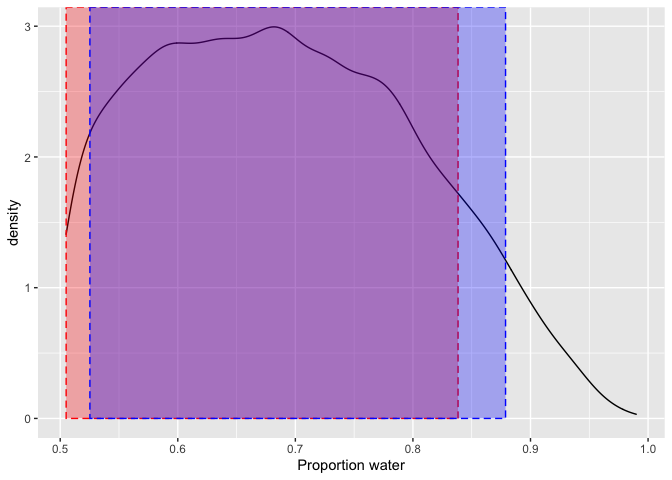
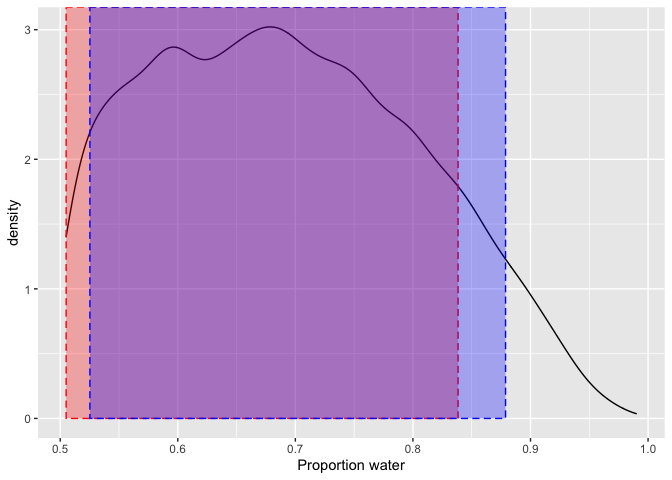
Q 4

diff --git a/homework/01-homework.md b/homework/01-homework.md
@@ -12,8 +12,6 @@ library(rethinking)
 ### **Question 1** Suppose the globe tossing data (Chapter 2) had turned out to be 4 water and 11 land. Construct the posterior distribution, using grid approximation. Use the same flat prior as in the book.
 
 ``` r
-p_grid <- seq( from=0 , to=1 , length.out=20 )
-
 # Define grid
 p_grid <- seq(0, 1, length.out = 100)
 
@@ -80,7 +78,7 @@ samples_2 <- sample(probs_df_2$prob,
 head(samples_2)
 ```
 
-    ## [1] 0.7373737 0.5858586 0.7777778 0.5757576 0.7878788 0.6666667
+    ## [1] 0.8181818 0.7777778 0.5858586 0.9191919 0.5151515 0.7171717
 
 ``` r
 # Calculate percentile intervals
@@ -106,11 +104,80 @@ interval in blue. The percentil interval is wider and potentially misses
 values at the lower end because the distribution is skewed
 
 ``` r
+# Plot a density distribution of the sample and the intervals
 ggplot(data.frame(values = samples_2), aes(x = values)) +
   geom_density() +
-  annotate('rect', xmin = samples_2_HPDI[1], xmax = samples_2_HPDI[2], ymin = 0, ymax = Inf, alpha = 0.3, colour = 'red', fill = 'red', linetype = 'dashed') +
-  annotate('rect', xmin = samples_2_PI[1], xmax = samples_2_PI[2], ymin = 0, ymax = Inf, alpha = 0.3, colour = 'blue', fill = 'blue', linetype = 'dashed') +
+  annotate('rect', 
+           xmin = samples_2_HPDI[1], xmax = samples_2_HPDI[2], 
+           ymin = 0, ymax = Inf, alpha = 0.3, 
+           colour = 'red', fill = 'red', linetype = 'dashed') +
+  annotate('rect', 
+           xmin = samples_2_PI[1], xmax = samples_2_PI[2],
+           ymin = 0, ymax = Inf, alpha = 0.3, 
+           colour = 'blue', fill = 'blue', linetype = 'dashed') +
   xlab('Proportion water')
 ```
 
 ![](01-homework_files/figure-gfm/unnamed-chunk-6-1.png)<!-- -->
+
+### **Question 4** OPTIONALCHALLENGE. Suppose there is bias in sampling so that Land is more likely than Water to be recorded. Specifically, assume that 1-in-5 (20%) of Water samples are accidentally recorded instead as ”Land”. First, write a generative simulation of this sampling process. Assuming the true proportion of Water is 0.70, what proportion does your simulation tend to produce instead? Second, using a simulated sample of 20 tosses, compute the unbiased posterior distribution of the true proportion of water.
+
+``` r
+# Generate 10,000 samples for number of water samples of 9 when the proportion of water is 0.7, but there is only a 4/5 probability of recording a true water as water
+unbiased_samp <- rbinom(10000, size = 9, prob = 0.7)
+biased_samp <- rbinom(10000, size = 9, prob = 0.7 * 4/5)
+
+# Biased sample distribution
+table(biased_samp)
+```
+
+    ## biased_samp
+    ##    0    1    2    3    4    5    6    7    8    9 
+    ##    6   73  357 1059 2066 2614 2205 1203  368   49
+
+``` r
+# Unbiased sample distribution
+table(unbiased_samp)
+```
+
+    ## unbiased_samp
+    ##    1    2    3    4    5    6    7    8    9 
+    ##    7   36  209  781 1697 2640 2716 1504  410
+
+``` r
+# Proportion of water produced by biased sample (as opposed to true proportion 0.7)
+biased_prop <- mean(biased_samp) / 9
+
+# Generate another 10,000 samples of 20 trials when sample is biased
+biased_samp <- rbinom(10000, size = 20, prob = 0.7 * 4/5)
+
+# Calculate likelihood without bias
+likelihood <- dbinom(round(mean(biased_samp), 0), 20, prob = p_grid)
+
+# Now accounting for bias
+likelihood_b <- dbinom(round(mean(biased_samp), 0), 20, prob = p_grid * 4/5)
+
+# Compute product of likelihood and prior (posterior) and add to df with p_grid
+probs_df_4 <- data.frame(prob = p_grid,
+                       prior,
+                       post = likelihood * prior,
+                       post_biased = likelihood_b * prior) %>%
+  # Standardize the posterior
+  mutate(unbiased = post / sum(post),
+         biased = post_biased / sum(post_biased)) %>%
+  pivot_longer(cols = c(unbiased, biased), 
+               names_to = 'sample_type', 
+               values_to = 'posterior')
+
+# Plot
+ggplot(probs_df_4, aes(x = prob, y = posterior, colour = sample_type)) +
+  geom_point()
+```
+
+![](01-homework_files/figure-gfm/unnamed-chunk-7-1.png)<!-- -->
+
+Accounting for bias, the simulation tends to produce a proportion of \~
+0.56. The unbiased posterior distribution seems to underestimate the
+actual proportion of water. When accounting for the bias in the sample,
+the posterior distribution is centred around the true proportion of
+water.
